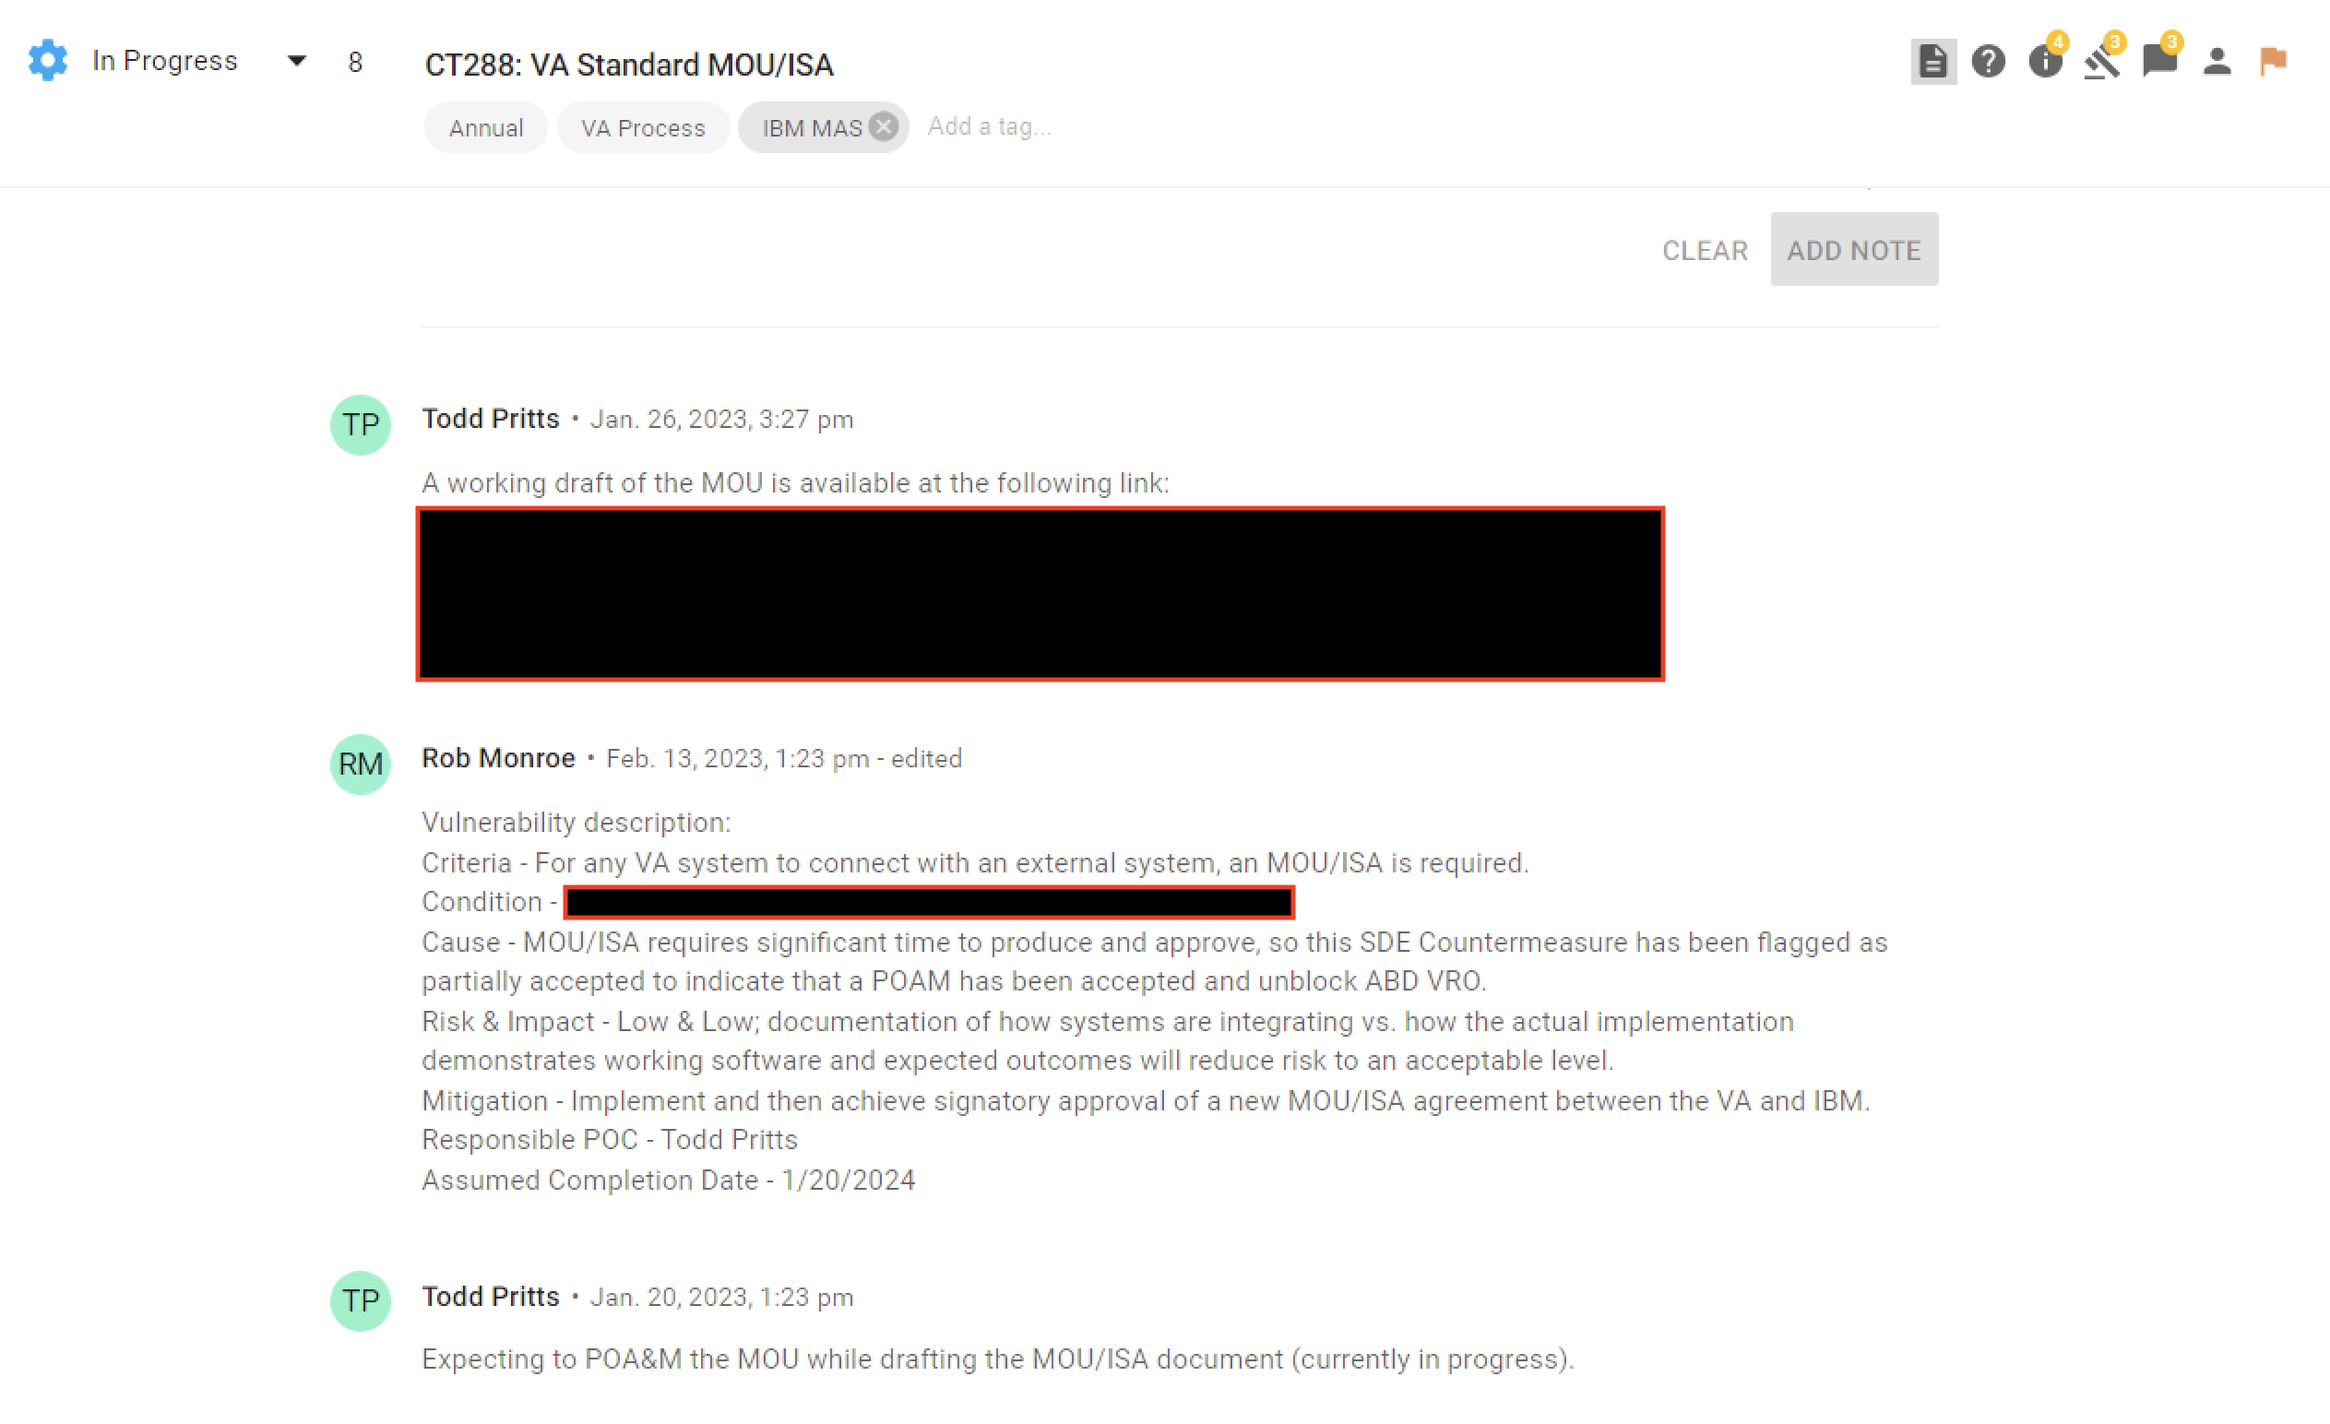
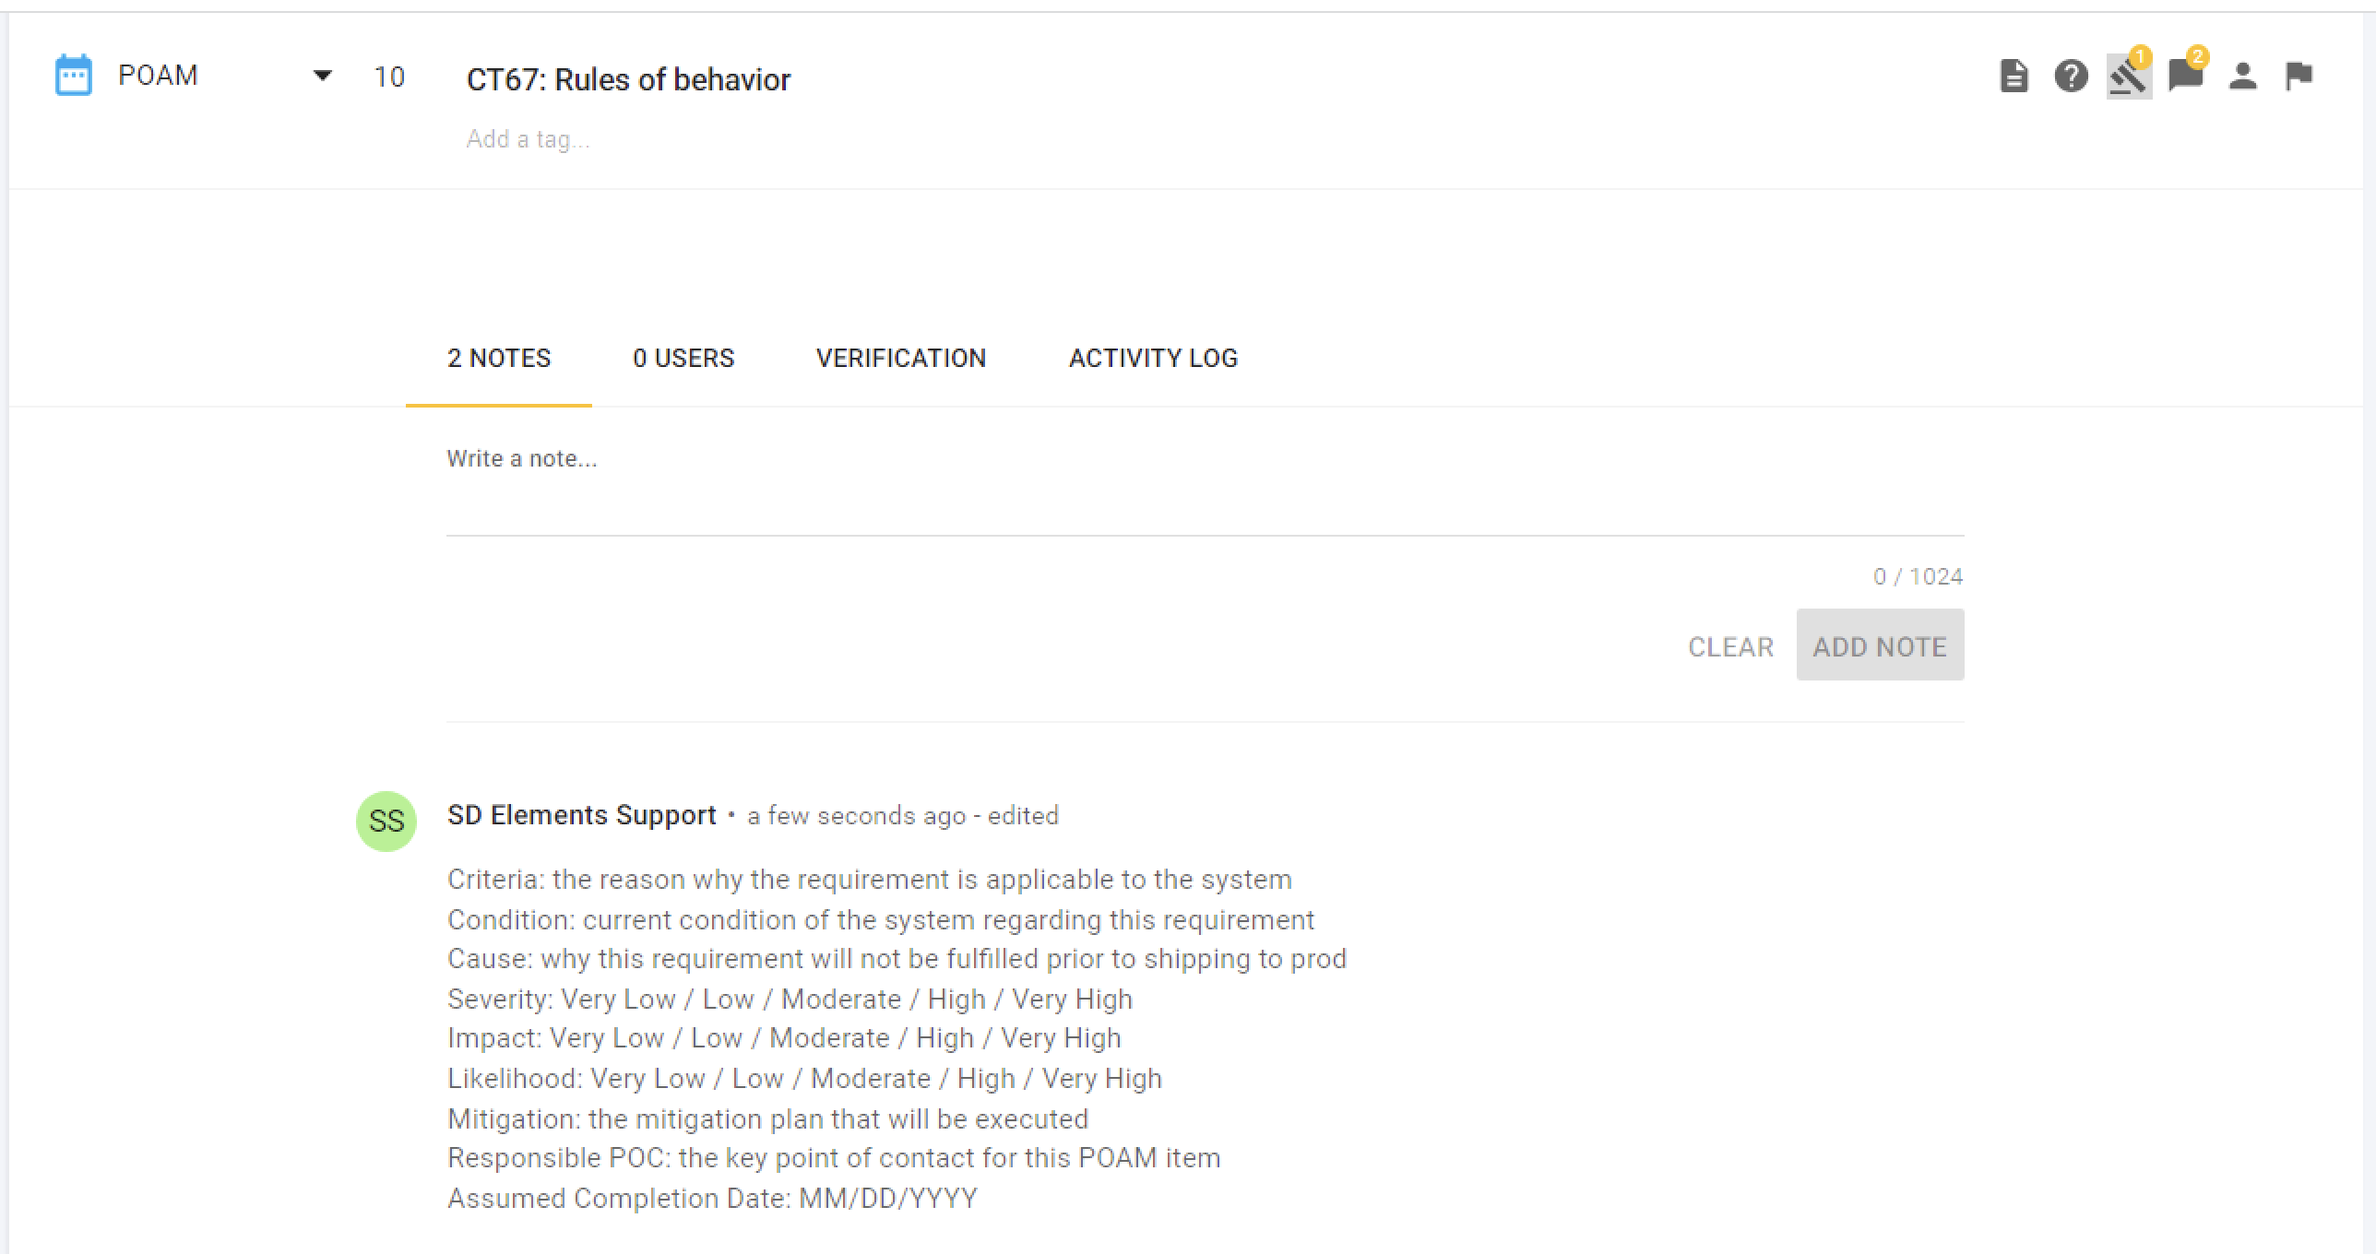
Poam updates (#12)
* Update poam.md

Updated POA&M writeup criteria

* delete old photo

* Add new poam response photo

* delete old poam response photo

* add new poam response photo

* Update poam.md

severity assessment table

* Update poam.md

assessment table and anchor links

* Update poam.md

* Update poam.md

types of impacts table

* Update poam.md

changed how poams are accepted

* Update poam.md

* Update poam.md

* delete old verification photo

* separate poam verification status photos

* Update poam.md

diff --git a/docs/poam.md b/docs/poam.md
@@ -5,21 +5,23 @@ The Plan of Action and Milestones (POA&Ms) describes the actions that are planne
 
 <br/>
 
-## When are POA&Ms not required?
-Deficiencies that are accepted by the AO as `residual risk`, or that are remediated during an assessment and before a release, do not require the documentation and monitoring of a POA&M.
+## When are POA&M mitigations not required?
+Deficiencies that are accepted by the AO as `residual risk`, or that are remediated during an assessment and before a release, do not require the documentation and monitoring of a POA&M. Residual risk is often covered by other controls that were fully, and successfully addressed.
 
 - Residual risk is defined as risk that remains after efforts to identify and mitigate said risk have been taken.
-- App Assessors are authorized to make these determinations, and report them to the AO.
+- Information System Security Officers (ISSO) or Application Security Assessors will monitor for new POA&M items submitted for review, and report them to the as needed AO.
 
 <br/>
 
 ## How are POA&Ms created in Lighthouse?
-When an Application Development Team and their Application Security Assessor determine that a requirement generated by our [Control Selection](selection.md) process will not be fulfilled prior to shipping to production on the LHDI platform, the Application Development Team will confirm the  deficiency and risk details for a given SD Elements countermeasure. These details will be captured as a note within the specific SD Elements countermeasure. An example of this action is shown in the image below, and the following data is required to have a complete POA&M request:
+When an Application Development Team and their Application Security Assessor determine that a requirement generated by our [Control Selection](selection.md) process will not be fulfilled prior to shipping to production on the LHDI platform, the Application Development Team will update their SD Elements countermeasure status to `POAM` to indicate a deficiency, and capture the risk details as a note within that countermeasure. An example of this action is shown in the image below, and the following data is required to formally request a POA&M be reviewed:
 
 - **Criteria:** the reason why the requirement is applicable to the system
 - **Condition:** current condition of the system regarding this requirement
 - **Cause:** why this requirement will not be fulfilled prior to shipping to prod
-- **Risk Likelihood & Impact:** Low/Medium/High designations and reasons why
+- **Severity:** an assessment of relative importance of mitigation/remediating the weakness ([How to assess severity](#sev))
+- **Impact:** the magnitude of potential harm to organizational operations as a result from the exploitation of identified vulnerabilities ([How to assess Impact](#impact))
+- **Likelihood:** level of confidence that an identified vulnerability will be exploited ([How to assess likelihood](#like))
 - **Mitigation:** the mitigation plan that will be executed
 - **Responsible POC:** the key point of contact for this POAM item
 - **Assumed Completion Date:** the date the team expects to have addressed mitigated this risk
@@ -30,34 +32,63 @@ When an Application Development Team and their Application Security Assessor det
 
 <br/>
 
-## How are POA&Ms accepted in Lighthouse?
-Once a POA&M request has been established, the Application Security Assessor will review the details with an AO (or a designated delegate). If the risk is accepted, one of the following actions can be taken to update the status of a specific SD Elements countermeasure. An example of how this is displayed to users in the SD Elements UI is shown below.
+<a name="sev"></a>
+### How to Assess Severity
+| **Qualitative Values** | **Assessment Scale - Vulnerability Severity Description** |
+|:---:|---|
+| Very High | The vulnerability is exposed and exploitable, and its exploitation could result in severe impacts. Relevant security controls or other remediation are not implemented and not planned; or no security measure can be identified to remediate the vulnerability. |
+| High | The vulnerability is of high concern, based on the exposure of the vulnerability and ease of exploitation and/or on the severity of impacts that could result from its exploitation. Relevant security controls or other remediation is planned but not implemented; compensating controls are in place and at least minimally effective. |
+| Moderate | The vulnerability is of moderate concern, based on the exposure of the vulnerability and ease of exploitation and/or on the severity of impacts that could result from its exploitation. Relevant security controls or other remediation is partially implemented and somewhat effective. |
+| Low | The vulnerability is of minor concern, but effectiveness of remediation could be improved. Relevant security controls or other remediation is fully implemented and somewhat effective. |
+| Very Low | The vulnerability is not of concern. Relevant security controls or other remediation is fully implemented, assessed, and effective. |
+<br/>
 
-1. The AO (or a designated delegate) can log into SD Elements, add a note indicating they are accepting the risk action and milestone, and update the verification status to `partial pass`.
-2. The Application Security Assessor can update the verification status to `partial pass` as long as they have obtained evidence from the AO (or a designated delegate) that the risk action and milestone has been accepted (e.g. email response), and included within the SD Elements countermeasure as an additional note.  
+<a name="impact"></a>
+### How to Assess Impact
+| **Qualitative Values** | **Assessment Scale - Impact of Threat Events Description** |
+|:---:|---|
+| Very High | The threat event could be expected to have multiple severe or catastrophic adverse effects on organizational operations, assets, individuals other organizations, or the Nation. |
+| High | The threat event could be expected to have a severe or catastrophic adverse effect on organizational operations, assets, individuals, other organizations, or the Nation. As an example, the threat event may: <ul><li>cause severe degradation or loss of mission capability to an extent and duration that the organization is not able to perform one or more of its primary functions</li><li>result in major damage to organizational assets</li><li>result in major financial loss</li><li>or result in severe or catastrophic harm to individuals involving loss of life or serious life-threatening injuries</li><ul> |
+| Moderate | The threat event could be expected to have a serious adverse effect on organizational operations, assets, individuals, other organizations, or the Nation. As an example, the threat event may: <ul><li>cause significant degradation in mission capability to an extent and duration that the organization is able to perform its primary functions, but the effectiveness is significantly reduced</li><li>result in significant damage to organizational assets</li><li>result in significant financial loss</li><li>or result in significant harm to individuals that does not involve loss of life or serious life-threatening injuries</li><ul> |
+| Low | The threat event could be expected to have a limited adverse effect on organizational operations, assets, individuals, other organizations, or the Nation. As an example, the threat event may: <ul><li>cause a degraded mission capability to an extent and duration that the organization is able to perform its primary functions, but the effectiveness is noticeably reduced</li><li>result in minor damage to organizational assets</li><li>result in minor financial loss</li><li>or result in minor harm to individuals</li><ul> |
+| Very Low | The threat event could be expected to have a negligible adverse effect on organizational operations, assets, individuals, other organizations, or the Nation. |
 
 <br/>
 
-![POAM Verification!](images/poam-verification.png "POAM Verification")
+#### Types of Impact
+| **Type of Impact** | **Impact Examples** |
+|:---:|---|
+| Harm to Operations | <ul><li>Inability to perform and/or restore mission/business functions, now or in the future, and to the extent that it harms financials, sanctions, relationships, etc.</li><li>Within planned resource constraints</li><li>In a sufficient timely manner</li><li>With sufficient confidence and/or correctness</li><li>With applicable laws or regulations</li><li>With contractual requirements or other requirements in other binding agreements</li><li>Damage to relationships, brand, or reputation</li><ul> |
+| Harm to Assets | <ul><li>Damage to or loss of information systems or networks</li><li>Damage to or loss of information technology or equipment</li><li>Damage to or loss of information assets</li><li>Loss of intellectual property</li><ul> |
+| Harm to Individuals | <ul><li>Injury or loss of life</li><li>Physical or psychological mistreatment</li><li>Identity theft</li><li>Loss of sensitive data (VA data, PII, PHI, SPI, etc.)</li><li>Damage to relationships, brand, or reputation</li><ul> |
+| Harm to Other Organizations | <ul><li>Harms financials, sanctions, relationships, etc. due to noncompliance</li><li>With applicable laws or regulations</li><li>With contractual requirements or other requirements in other binding agreements</li><li>Damage to relationships, brand, or reputation</li><ul> |
+| Harm to the Nation | <ul><li>Damage to or incapacitation of a critical infrastructure sector</li><li>Loss of business/government continuity of operations</li><li>Damage to relationships with other governments or nongovernment entities</li><li>Damage to national reputation</li><li>Damage to current or future ability to achieve national objectives such as national security</li><ul> |
 
 <br/>
 
-## How are Countermeasure Status vs. Verification Status used?
-Every SD Elements countermeasure has a Status that Application Development Teams will update from `Incomplete`, to ultimately one of three available done status's which are `Complete`,`Inherited`, or `Not Applicable`.
+<a name="like"></a>
+### How to Assess Likelihood
 
-- **Complete** means the countermeasure has been addressed, and is ready for an Application Security Assessor to verify the implementation details.
-- **Inherited** means that the team believes the countermeasure is completely addressed by another component (e.g. LHDI Platform, a shared authentication service, or even a VA organization that defines specific policies and procedures for all teams to follow), and is ready for an Application Security Assessor to verify. When a team believes a countermeasure is partially inherited, teams should default to using the Complete status.
-- **Not Applicable** means that the team believes the countermeasure does not pertain to their system at all, and is ready for an Application Security Assessor to verify.
+| **Likelihood** |  | **Very Low Impact** | **Low Impact** | **Moderate Impact** | **High Impact** | **Very High Impact** |
+|:---:|---|:---:|:---:|:---:|:---:|:---:|
+|  |  |  |  |  |  |  |
+| **Very High Threat** |  | Very Low | Low | Moderate | High | Very High |
+| **High Threat** |  | Very Low | Low | Moderate | High | Very High |
+| **Moderate Threat** |  | Very Low | Low | Moderate | Moderate | High |
+| **Low Threat** |  | Very Low | Low | Low | Low | Moderate |
+| **Very Low Threat** |  | Very Low | Very Low | Very Low | Low | Low |
 
 <br/>
 
-Every SD Elements countermeasure also has a Verification Status, which is used to confirm that the risk identified has been addressed appropriately. Application Security Assessors will update the Verification Status from `no verification status` to either `pass` or `partial pass`. Partial pass is strictly reserved for confirming risk accepted countermeasures as POA&Ms for reporting and traceability purposes. The following combinations of Countermeasure Status and Verification Status are used to indicate specific decisions that have been made with POA&Ms
+## How are POA&Ms accepted or denied in Lighthouse?
+Once a POA&M request has been confirmed by an Application Security Assessor or Information System Security Officer (ISSO), it will be reviewed with an Authorizing Official (AO), or a designated delegate. The AO, their deligate, an Application Security Assessor or ISSO can perform any one of the actions described below, to communicate a formal decision for the POA&M being reviewed. In the case of an Application Security Assessor or ISSO performing a formal decision for a POA&M, they must also include evidence from the AO or delegate, concurring with the decision (e.g. email response) as an additional note within the countermeasure. 
 
+| **Update Verification Status to...**  | **POA&M Decision Translation**  | **SDE Countermeasure Example** |
+|:---:|---|---|
+| `Pass` | <ul><li>A deficiency still remains after assessment</li><li>All mitigation strategies have beeen exhausted</li><li>All remaining risk has been accepted as residual risk by their AO or delegate</li><li>The team is not blocked from deploying to production</li><ul> | ![POAM Pass!](images/verify-status-pass.png "POAM Pass") |
+| `Partial Pass` | <ul><li>A deficiency still remains after assessment</li><li>A post release mitigation plan, proposed by the Application Development Team, has been approved by their AO or delegate</li><li>The team is not blocked from deploying to production</li><ul> | ![POAM Partial Pass!](images/verify-status-partial.png "POAM Partial Pass") |
+| `Fail` | <ul><li>The AO or delegate have denied the Application Development Teams post release mitigation plan proposal</li><li>The team is blocked from deploying to production until they either fully mitigate[^1] or reduce the risk to an acceptable residual risk level</li><ul> | ![POAM Fail!](images/verify-status-fail.png "POAM Fail") | 
 
-| **Countermeasure Status**           | **Verification Status**             | **POA&M Action Translation**                                                       |
-|-------------------------------------|-------------------------------------|-----------------------------------------------------------------------------------|
-| `Incomplete`                        | `Partial Pass`                      | Deficient requirement that is backlogged, and will be addressed in future sprints |
-| `In Progress`                       | `Partial Pass`                      | Deficient requirement that is actively being addressed                            |
+<br/>
 
-
-
+[^1]: When a POA&M has been fully mitigated, the SD Elements countermeasure status will transition from `POAM` to `Complete` indicating that the POA&M no longer exists. All historical data for POA&M requests and approvals against a countermeasure will persist for auditing purposes.  
